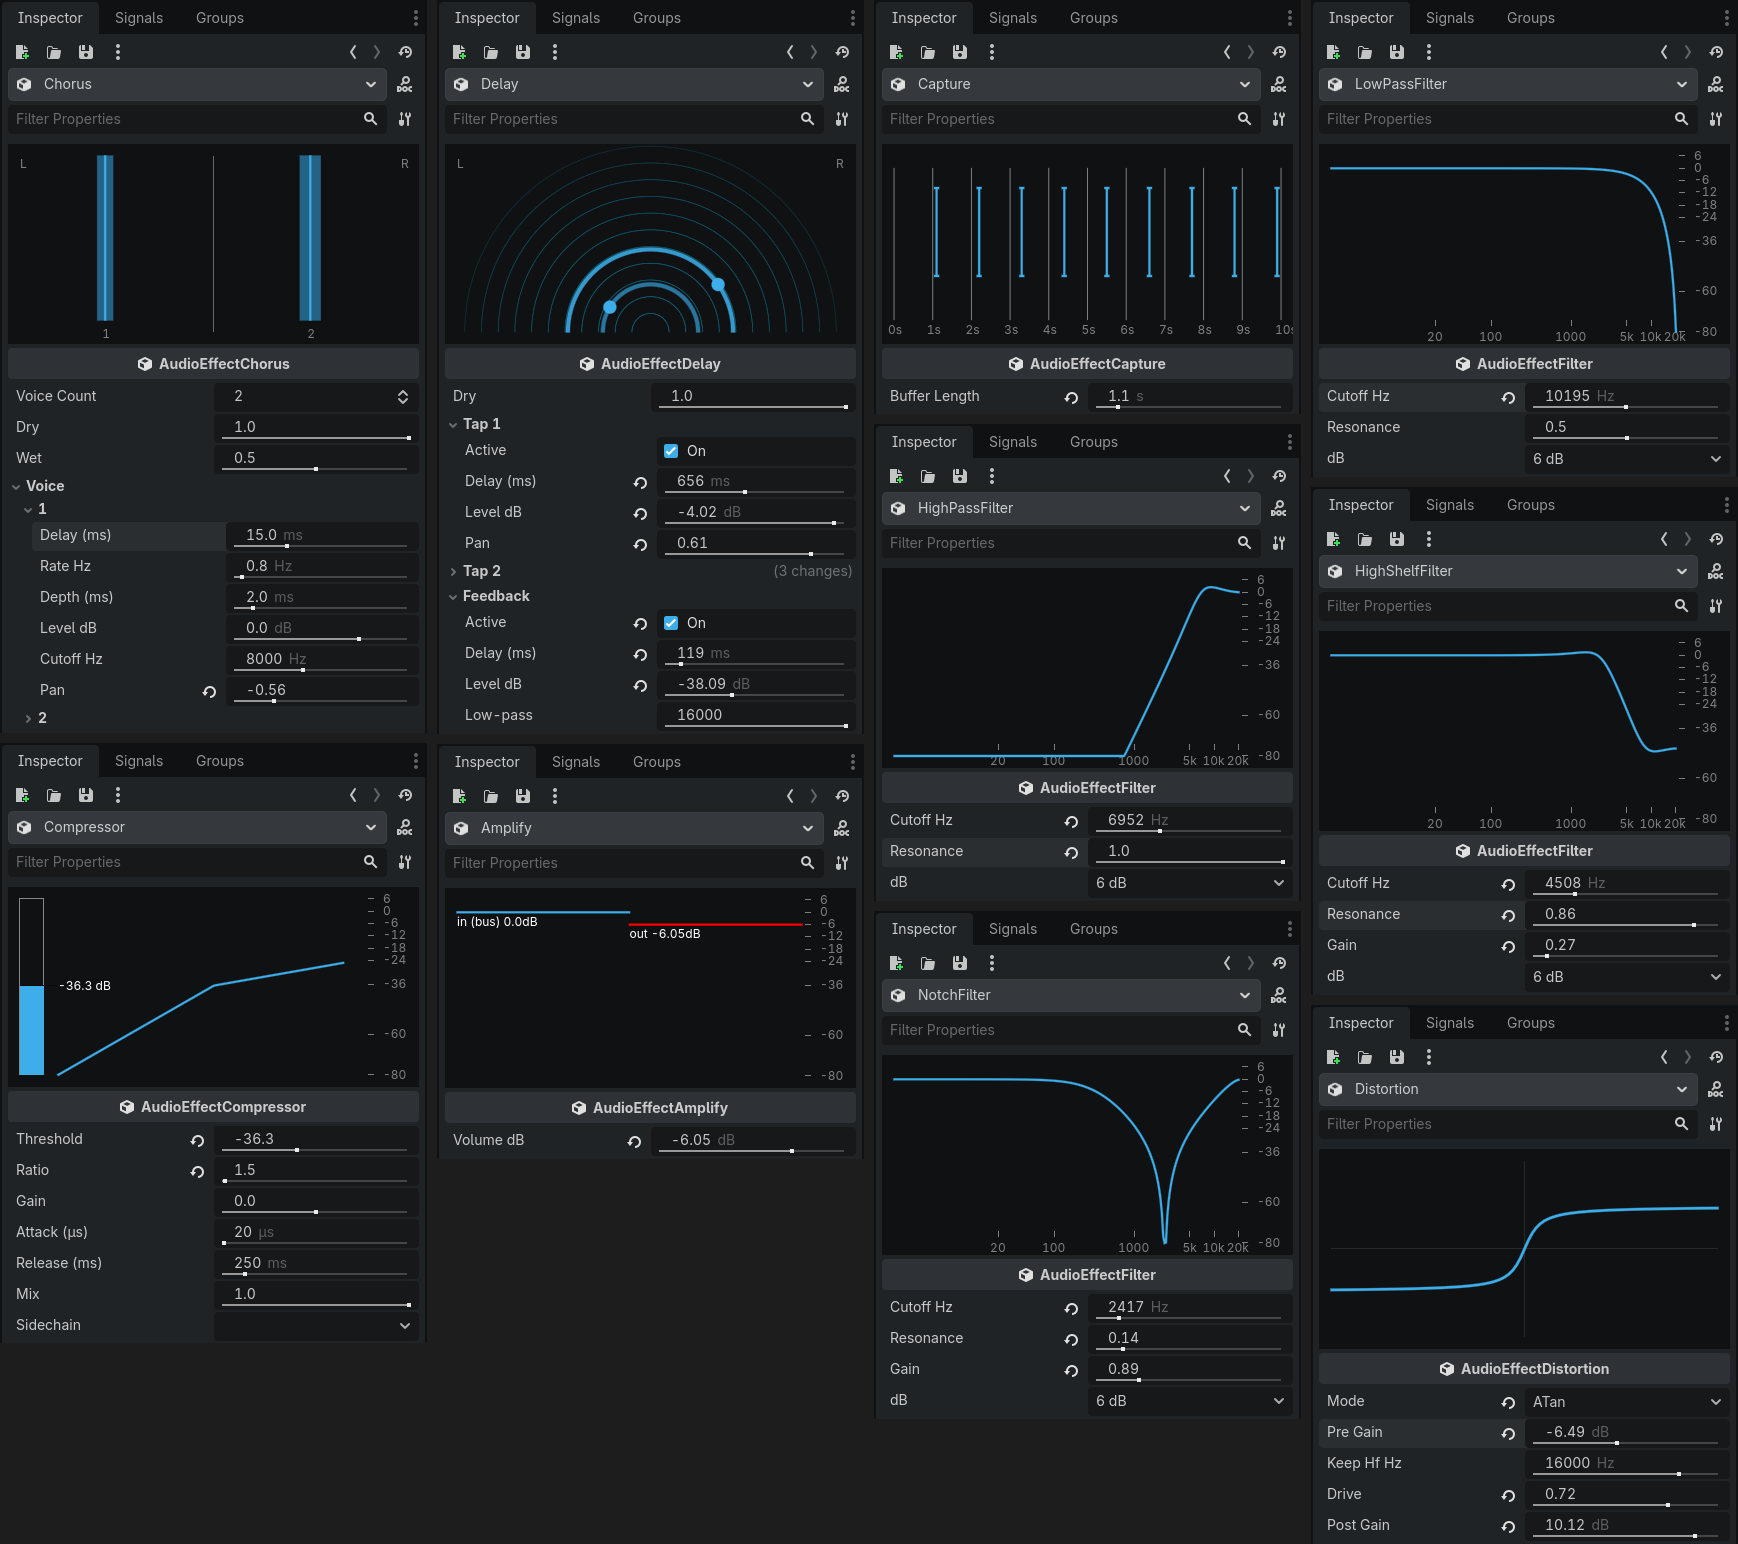
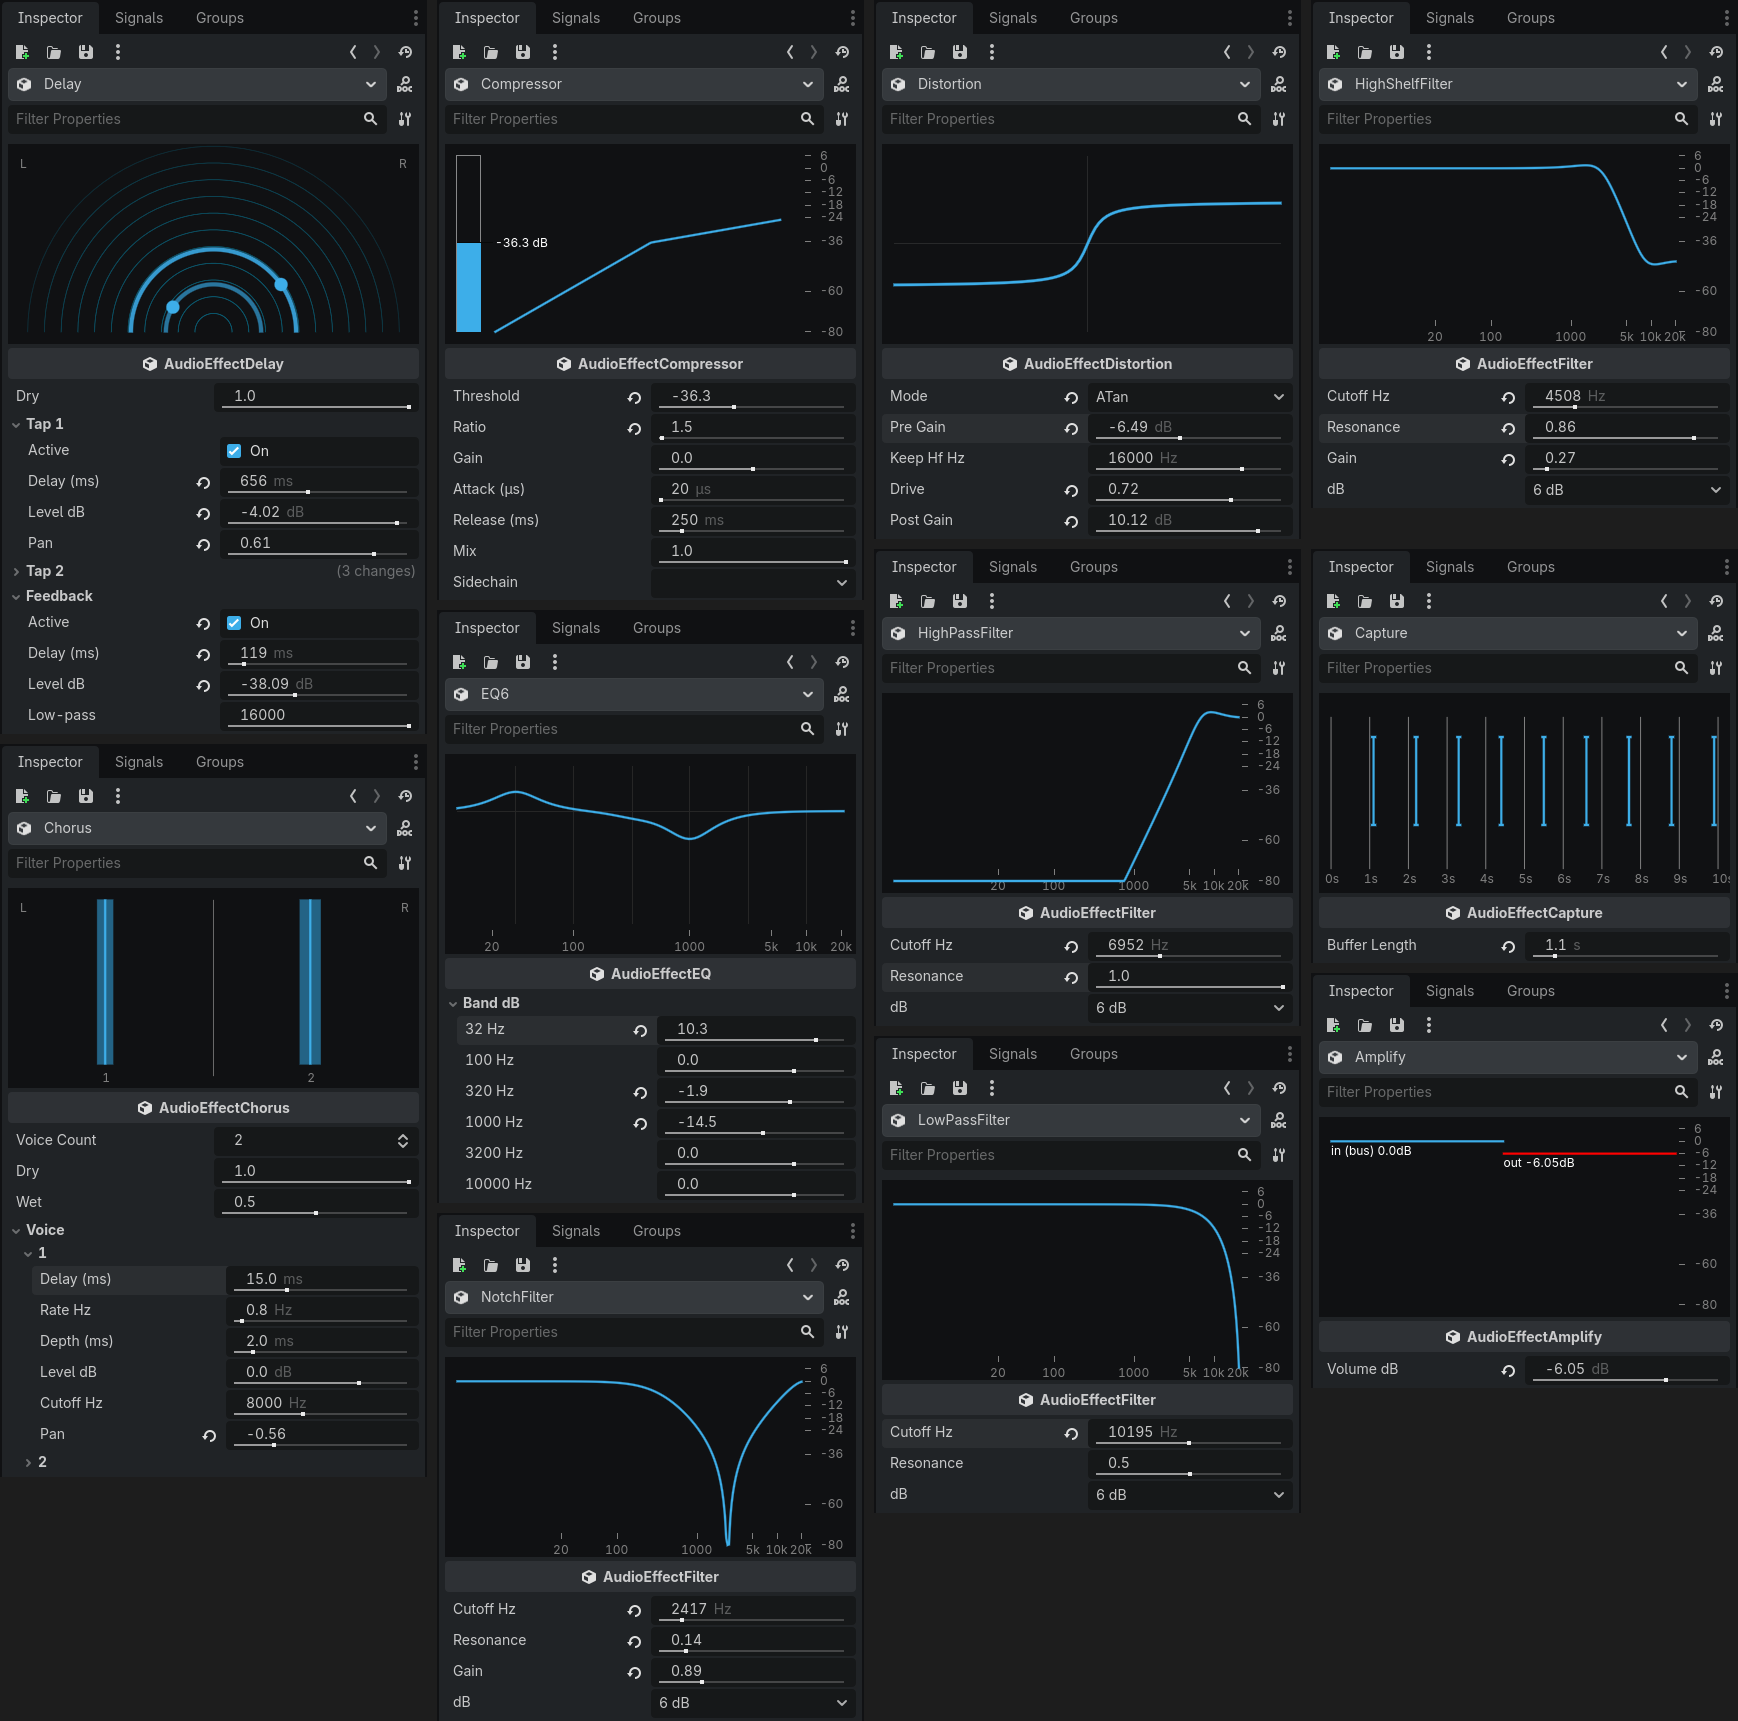
update README

diff --git a/README.md b/README.md
@@ -16,6 +16,7 @@ For those who are tired of blindly changing parameters of audio effects in Godot
 - Compressor
 - Delay
 - Distortion
+- All EQs
 
 ## Similar addons:
 
